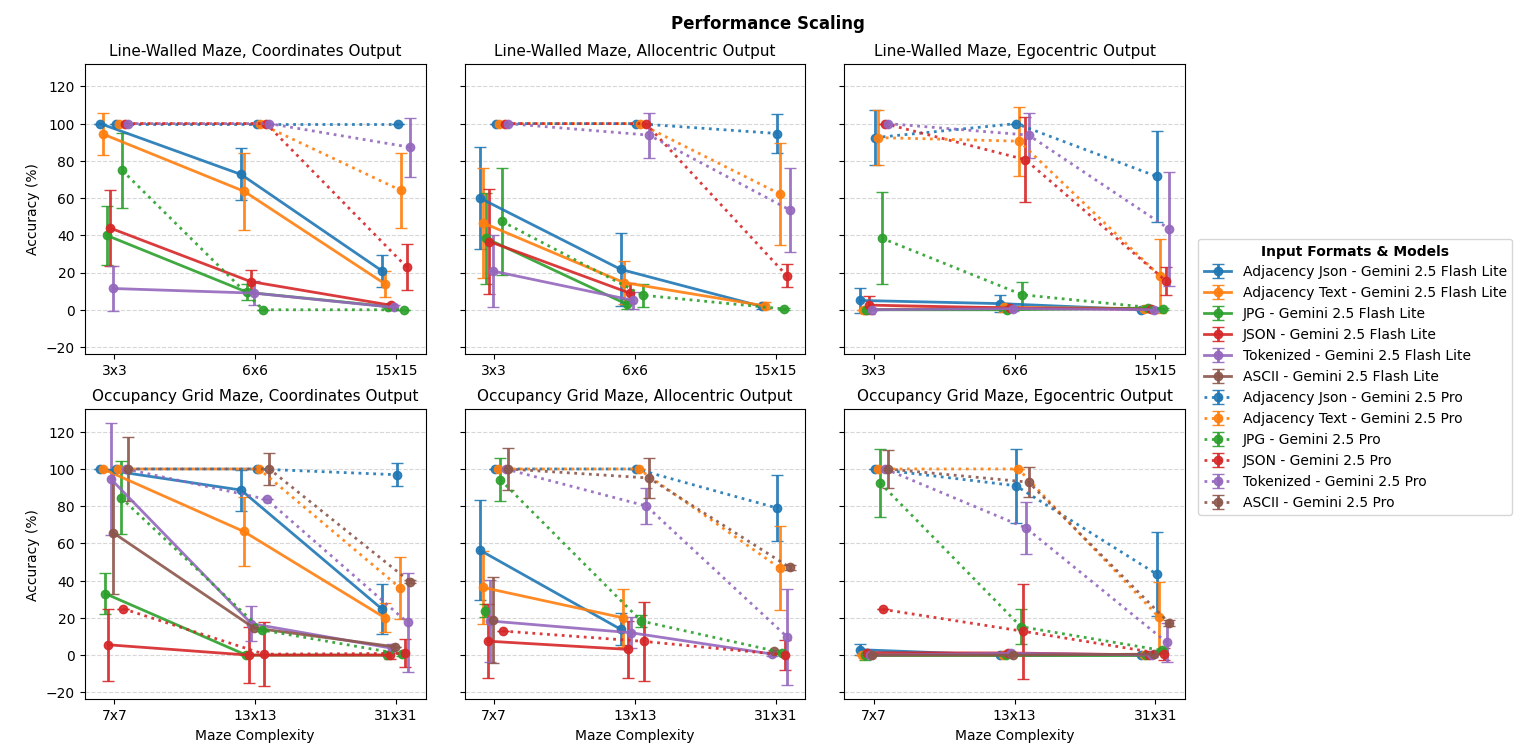
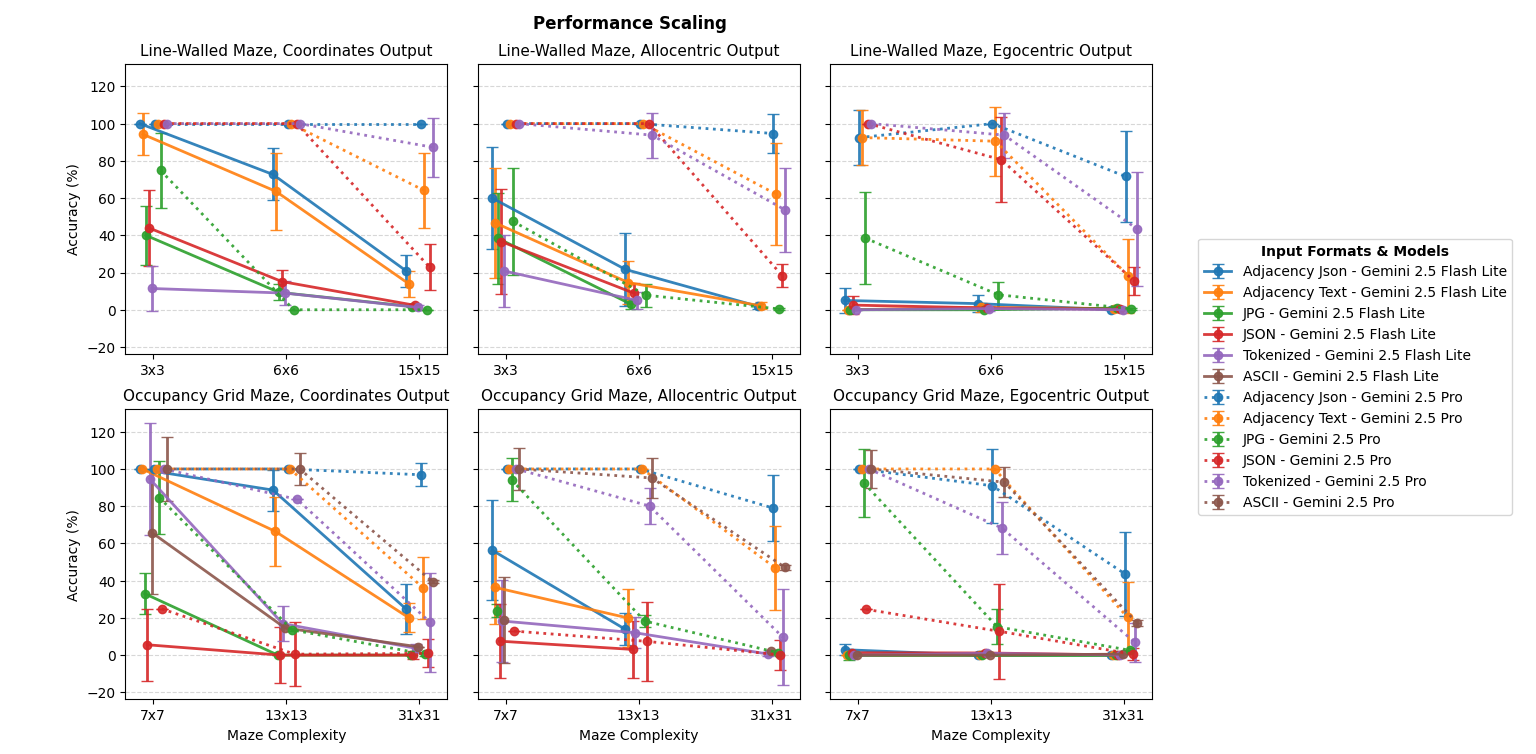
found a way to position suptitle for figs

diff --git a/charts_Dataset03.py b/charts_Dataset03.py
@@ -1613,11 +1613,9 @@ for idx, ax in enumerate(axes.flat):
     if idx == 5:
         handles_for_legend, labels_for_legend = ax.get_legend_handles_labels()
 
-# 5. Create Single Global Legend to the Right
-# We take the handles from the bottom-right plot which covers all 12 cases.
-# We stop the plots at 70% of the width, leaving 30% white space on the right.
-plt.subplots_adjust(right=0.70)
-plt.suptitle("Performance Scaling", fontweight='bold')
+
+
+plt.suptitle("Performance Scaling", x=0.82*0.5, fontweight='bold')
 # Position the legend within that white space
 legend=fig.legend(
     handles_for_legend, 
@@ -1632,7 +1630,7 @@ legend.get_title().set_fontweight('bold')
 
 plt.tight_layout()
 # Adjust right margin to make room for the legend
-plt.subplots_adjust(right=0.88) 
+plt.subplots_adjust(right=0.75) 
 plt.show()
 
 

diff --git a/tesT.py b/tesT.py
@@ -38,7 +38,7 @@ instructions_allo = ("Instructions:\n" \
 
 # PROMPT 2: EGO
 instructions_ego = ("Instructions:\n" \
-    "1. Give instructions to an agent in the maze. The agent begins by facing south. The agent begins by facing south. You can only use the following four actions:\n" \
+    "1. Give instructions to an agent in the maze. The agent begins by facing south. You can only use the following four actions:\n" \
     "Forward: this moves the agent 1 step in the direction it is facing.\n" \
     "Left: this turns the agent 90° to the left and then moves the agent 1 step in the new direction it is facing.\n" \
     "Right: this turns the agent 90° to the right and then moves the agent 1 step in the new direction it is facing.\n" \
